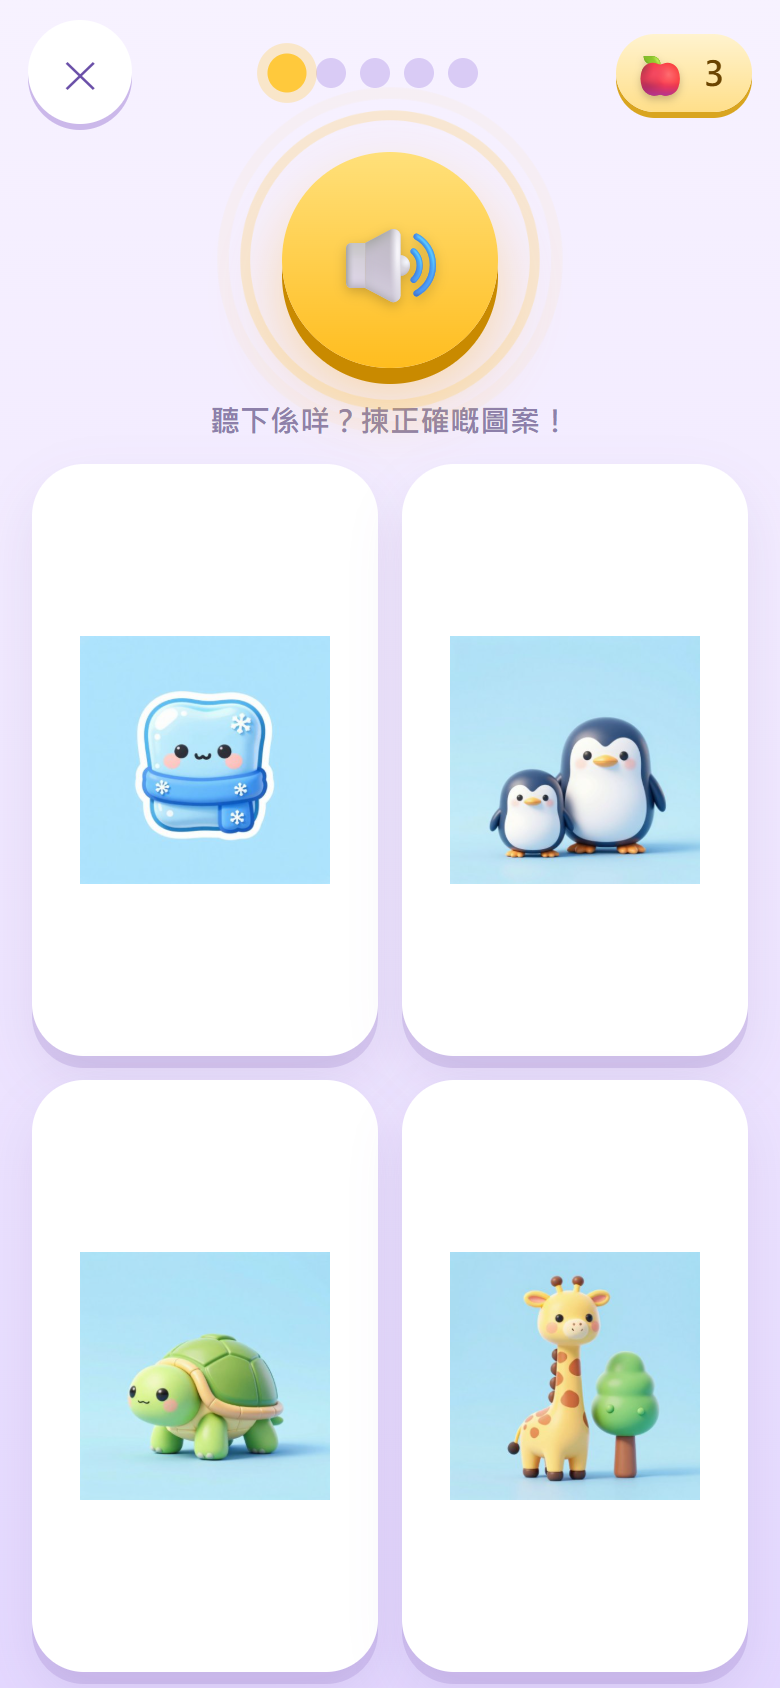
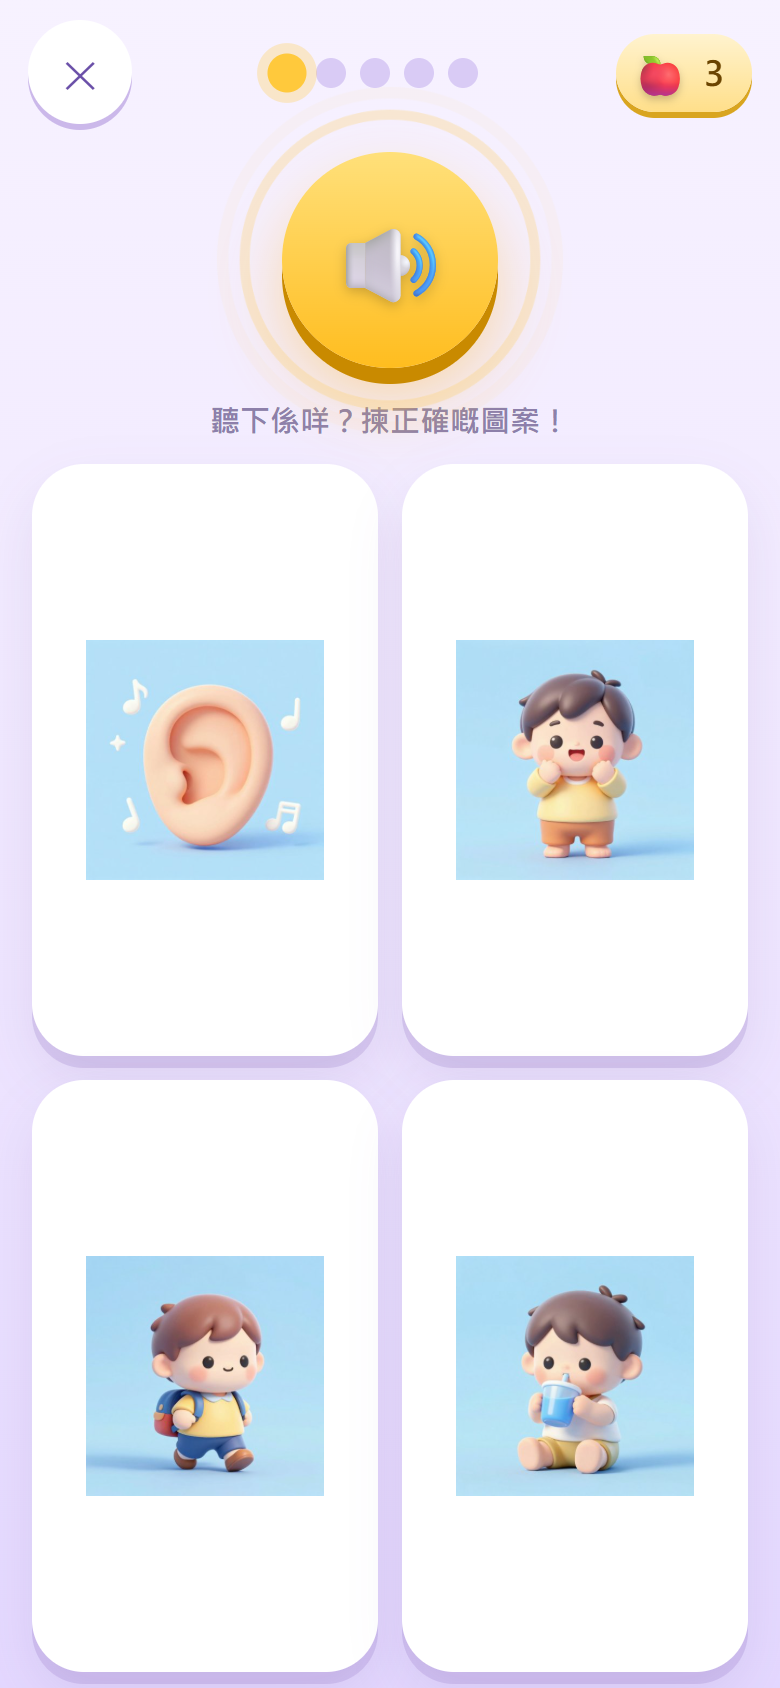
fix: 答題圖／獎勵卡改用 contain，見齊全圖（之前 hero 圖被裁）

diff --git a/assets/css/layout.css b/assets/css/layout.css
@@ -520,8 +520,25 @@ img.ai-shadow {
 }
 /* 圖鑑 / 題目卡：用裁切圖 */
 .album-card .ac-art img.ai-cutout { width: 100%; height: 100%; object-fit: contain; }
-.answer .ans-pic img.ai-item { width: 86%; height: 86%; object-fit: contain; }
-.prompt-pic img.ai-item { width: 84%; height: 84%; }
-.reveal-art img.ai-hero { width: 100%; height: 100%; object-fit: cover; border-radius: 24px; }
+/* 答案卡：一定要見齊全圖（包括有背景嘅 hero 圖），唔可以裁 */
+.answer .ans-pic img,
+.answer .ans-pic img.ai-hero,
+.answer .ans-pic img.ai-item {
+  width: 82%;
+  height: 82%;
+  object-fit: contain;
+  object-position: center;
+  border-radius: 14px;
+}
+.prompt-pic img,
+.prompt-pic img.ai-hero,
+.prompt-pic img.ai-item {
+  width: 90%;
+  height: 90%;
+  object-fit: contain;
+}
+.reveal-art img.ai-hero { width: 100%; height: 100%; object-fit: contain; border-radius: 24px; background: #fff8e8; }
 .feed-animal img.ai-cutout { width: 100%; height: 100%; object-fit: contain; }
 .reveal-art { overflow: hidden; border-radius: 24px; }
+/* 圖鑑詳情：都要見齊 */
+.animal-sheet .as-art img { width: 100%; height: 100%; object-fit: contain; }
